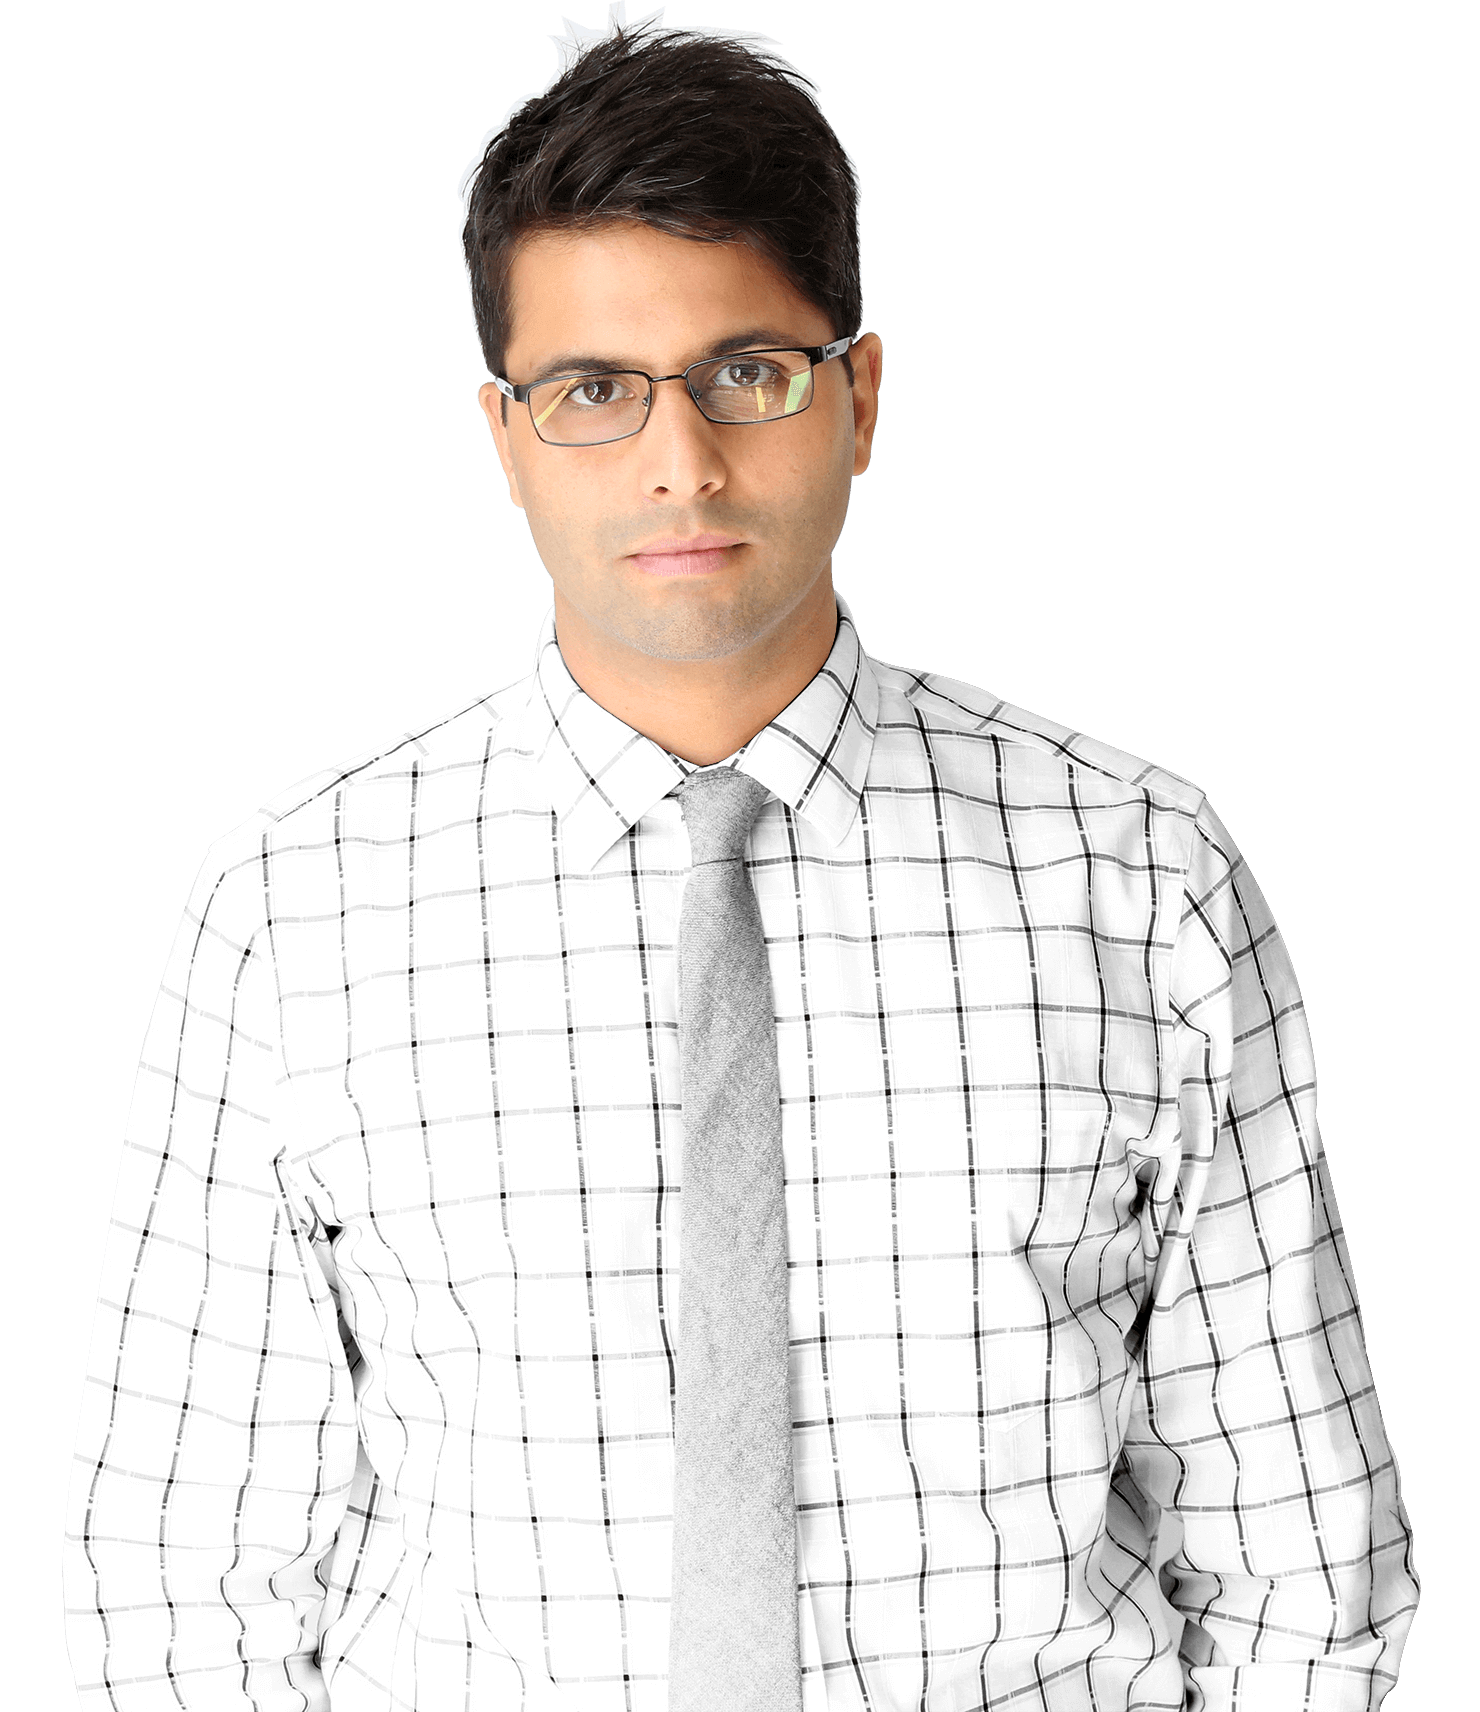
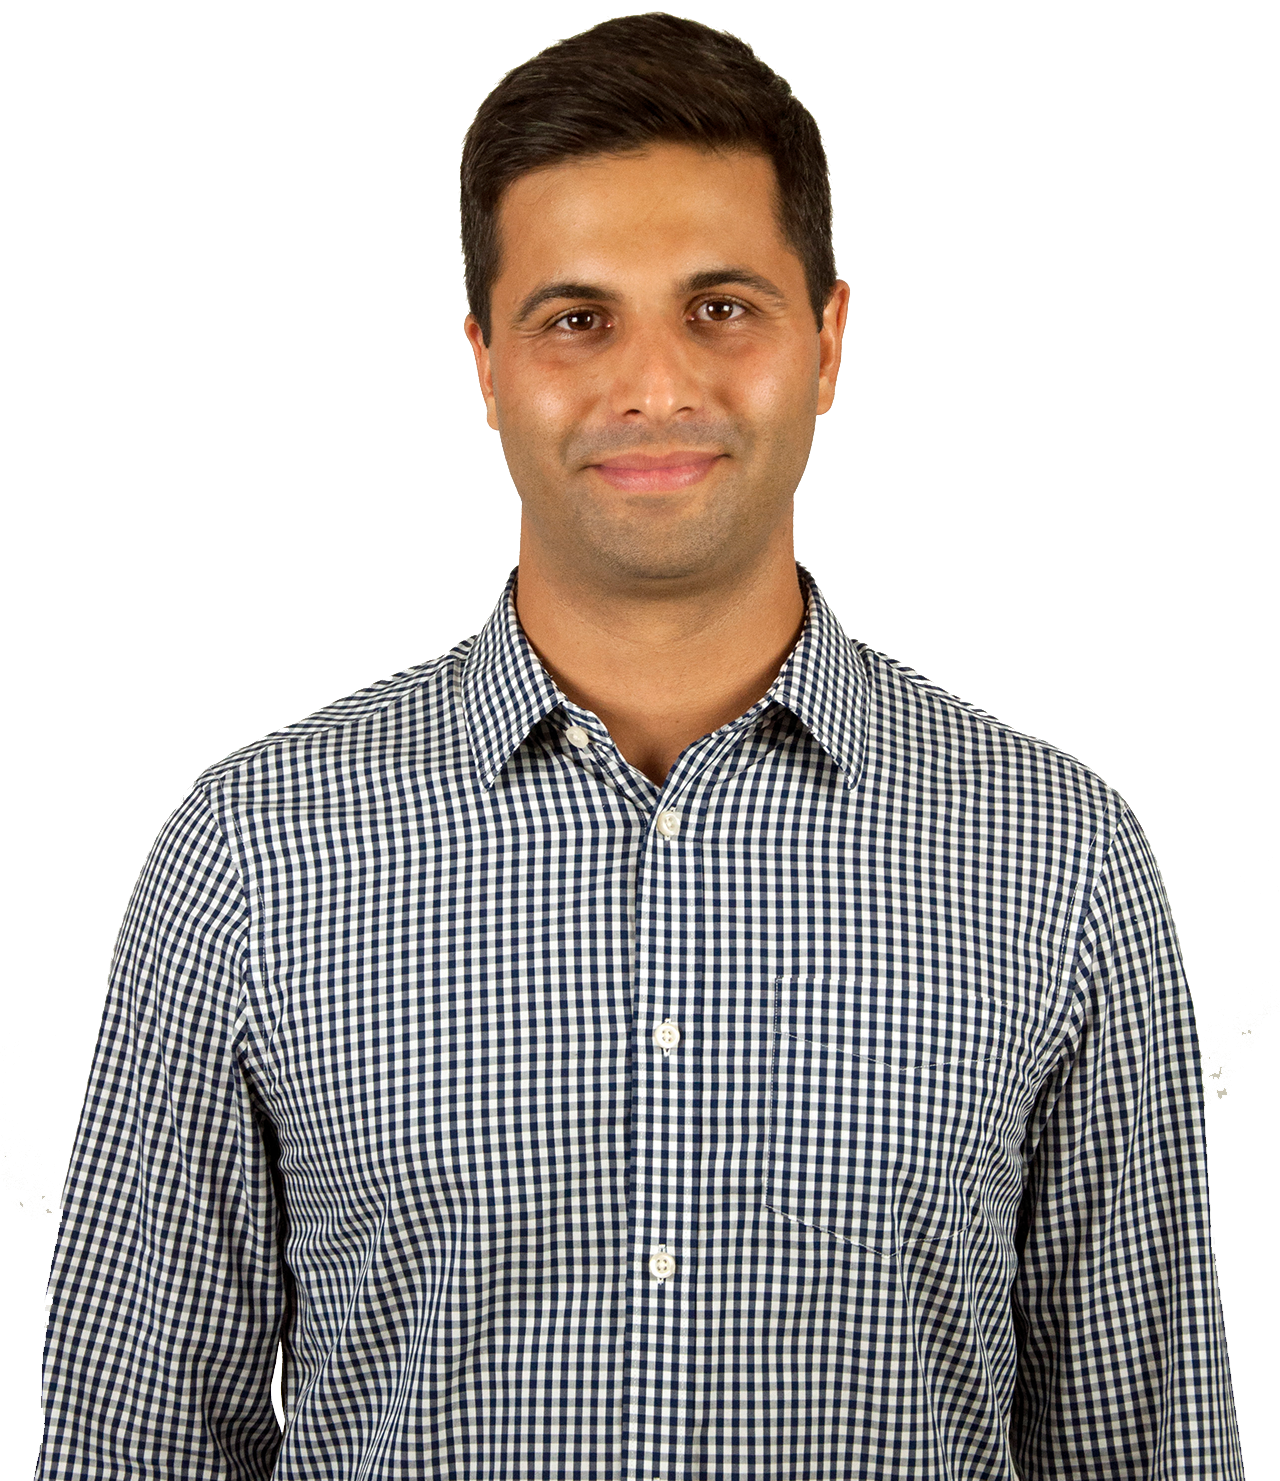
uploading last changes, new photos

diff --git a/index.php b/index.php
@@ -3,7 +3,7 @@
     <head>
         <meta charset="utf-8"/>
         <title>Philipe Casarotte — Creative Full Stack Programmer</title>
-		<meta name="description" content="Philipe Casarotte is DBurns CTO &amp; Product Manager. He has experience in web development, client relations and digital strategy. He is a programmer."/>
+		<meta name="description" content="Philipe Casarotte is DBurns CTO & Product Manager. He is a programmer with experience in web development, client management and digital strategy."/>
 		<meta name="viewport" content="width=device-width, initial-scale=1.0, minimum-scale=1.0, maximum-scale=1.0"/>
 		<meta http-equiv="X-UA-Compatible" content="IE=edge,chrome=1"/>
 		<meta name="google-site-verification" content="_Ao4wv72VkOYnYgvu27J2vGEUOhSnDTXPq56_x9LZiM"/>
@@ -20,7 +20,7 @@
 			<div class="intro col">
 				<h1>
 					Philipe Casarotte
-					<small>CTO &amp; Product Manager for <a href="http://www.dburnsdesign.com/about-us#our-team">DBurns</a>.</small>
+					<small>Product Manager for <a href="http://www.dburnsdesign.com/about-us#our-team">DBurns</a>.</small>
 				</h1>
 				<p>I'm a programmer with experience in web development, client management and digital strategy.</p>
 				<button rel="#bio">FULL BIO &raquo;</button>
@@ -30,11 +30,11 @@
 				</a>
 			</div>
 			<div class="col">
-				<img src="images/philipe-casarotte-smile.png" width="1480" height="1712" alt="Philipe Casarotte" class="profile-id"/>
+				<img src="images/philipe-casarotte.png" width="1480" height="1712" alt="Philipe Casarotte" class="profile-id"/>
 			</div>
 		</header>
 		<section id="bio">
-			<p class="intro"><big><strong>Bio:</strong> I guide clients in all aspects of their web development project, from the initial strategy and scope to the project management. I strategize end-to-end launch plans for my clients’ products and services.</big></p>
+			<p class="intro"><big><strong>Bio:</strong> I guide clients in all aspects of their web development project, from the initial strategy and scope to the project management. I strategize end-to-end launch plans for my clients' products and services.</big></p>
 			<div>
 				<p>My diverse background includes roles in client relations, project management, front- and back-end development, UX/UI and digital strategy. I enjoy leading teams and collaborating with people from all disciplines to make intensely creative websites. My ability to deeply understand the technical aspects of web development as well as the business and marketing facets allows me to quickly connect with other team members and clients.</p>
 				<h3>Previous Experiences</h3>
@@ -44,7 +44,6 @@
 			</div>
 		</section>
 		<section id="recent-work">
-			<!-- TO-DO: Shut Photo in eagle angle, showing me typing away and doing some work, add full background cover so it fits the width/height of the parent div -->
 			<div>	
 				<h2>
 					I'm Currently<br/>
@@ -98,7 +97,7 @@
 		</section>
 		<section id="stats">
 			<h2>Experience by the Number</h2>
-			<p>I've been involved in more than 450 projects in various roles. Here's a few fun stats on my roles in these projects throughout the years.</p>
+			<p>I've been involved in more than 450 projects in various roles. Here's a few stats on my roles in these projects throughout the years.</p>
 			<ul>
 				<li>
 					<i class="icon-rubydiamond"></i>
